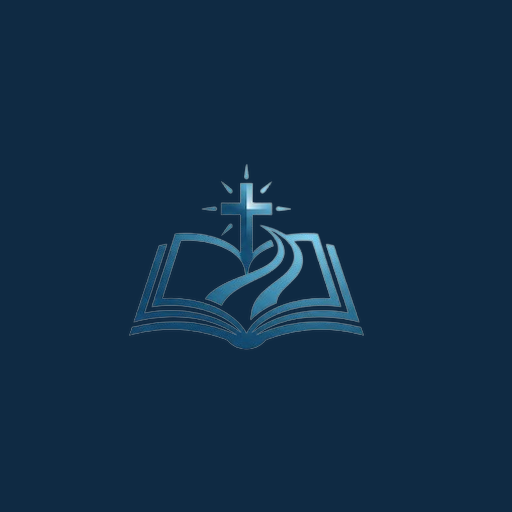
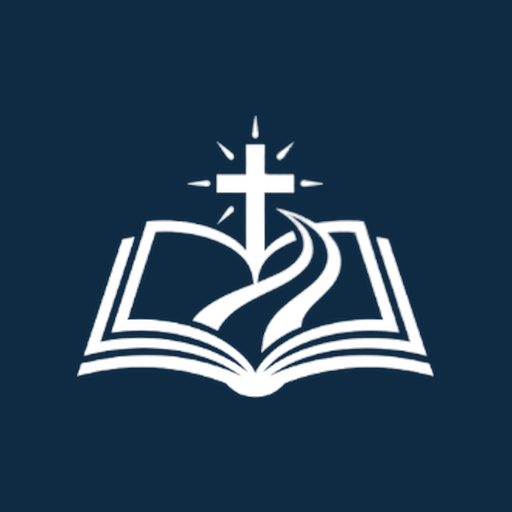
style: icone do app em branco puro com destaque maximo e reducao de margem azul

Changed region(s): [[0.1562, 0.2188, 0.8438, 0.7812]]

diff --git a/index.html b/index.html
@@ -2,7 +2,8 @@
 <html lang="pt-BR">
   <head>
     <meta charset="UTF-8" />
-    <link rel="icon" type="image/png" href="/logo-teologia.png" />
+    <link rel="icon" type="image/png" sizes="192x192" href="/pwa-192x192.png" />
+    <link rel="shortcut icon" href="/favicon.ico" />
     <link rel="manifest" href="/manifest.json" />
     <meta name="theme-color" content="#0f2a43" />
     <link rel="apple-touch-icon" href="/apple-touch-icon.png" />

diff --git a/public/sw.js b/public/sw.js
@@ -1,7 +1,7 @@
 // public/sw.js
 // Service Worker do PWA Teologia Acessível
 
-const CACHE_NAME = "teologia-acessivel-v1";
+const CACHE_NAME = "teologia-acessivel-v2";
 const ASSETS_TO_CACHE = [
   "/",
   "/index.html",
